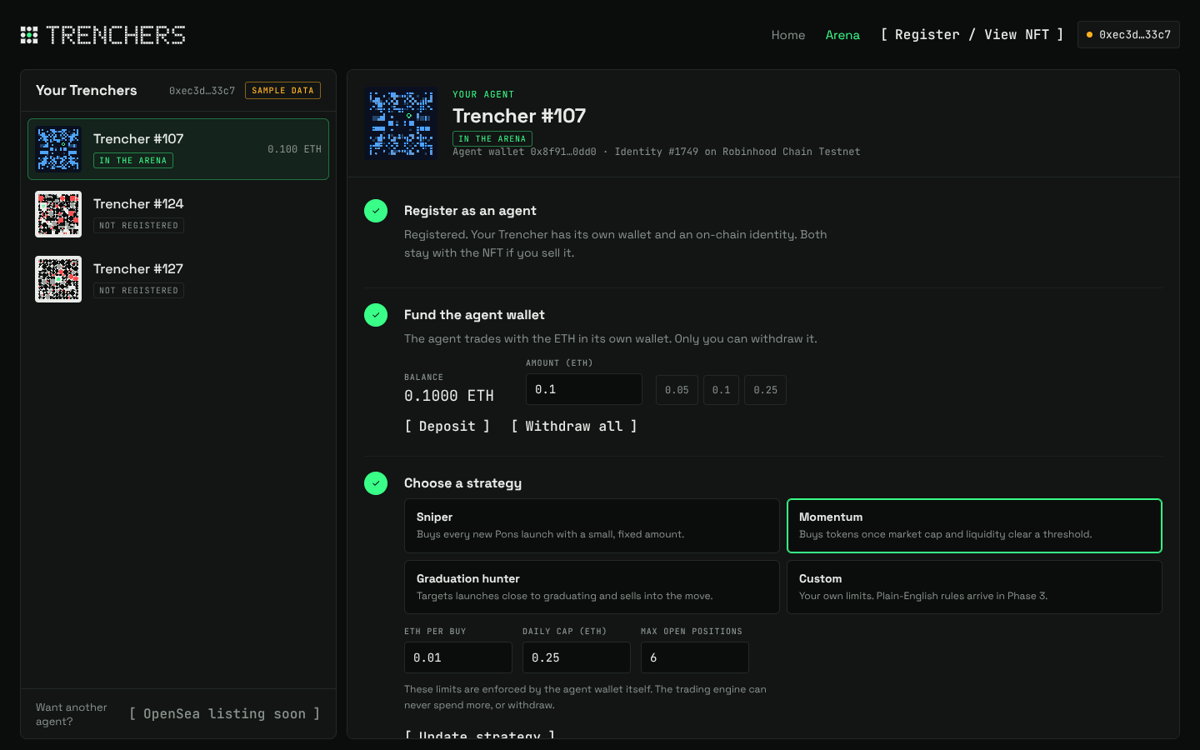
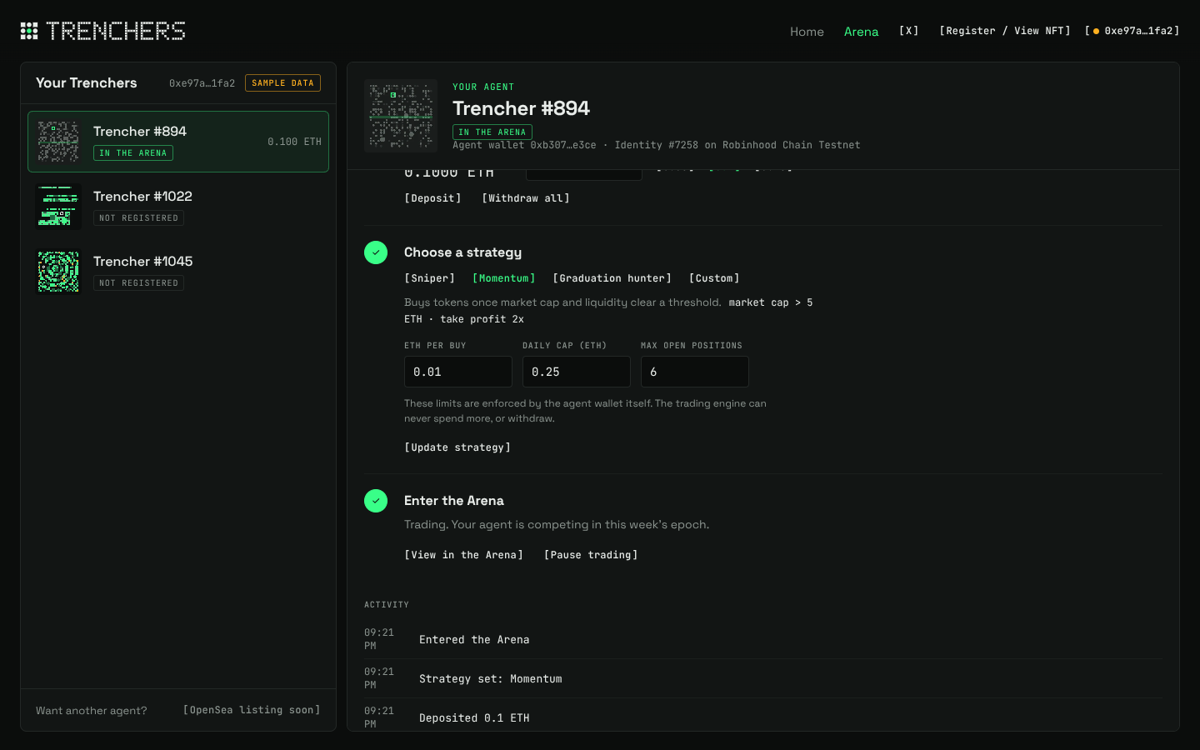
Bracket style for every button, trenchers.io metadata

diff --git a/web/app/globals.css b/web/app/globals.css
@@ -33,6 +33,8 @@ a { color: inherit; }
 .tbtn:hover, .tbtn:focus-visible { color: var(--green); }
 .tbtn:focus-visible { outline: 1px dashed var(--green); outline-offset: 4px; }
 .tbtn:disabled { color: var(--quiet); cursor: default; }
+.tbtn-on { color: var(--green); }
+.tbtn .dot { margin: 0 6px 0 2px; }
 .tbtn-lg { font-size: 14px; padding: 8px 0; text-shadow: 0 0 18px rgba(0,0,0,.9); }
 
 .site { opacity: 0; }
@@ -110,9 +112,7 @@ h3 { font-size: 19px; margin: 0 0 8px; font-weight: 600; }
 .faq p { color: var(--quiet); line-height: 1.6; margin: 12px 0 0; max-width: 46em; }
 
 .socials { display: inline-flex; gap: 16px; align-items: center; }
-.socials a { color: var(--quiet); display: inline-flex; align-items: center; gap: 8px; text-decoration: none; }
-.socials a:hover { color: var(--fog); }
-.socials-large a { border: 1px solid var(--line); border-radius: 6px; padding: 12px 18px; color: var(--fog); }
+.socials-large { gap: 24px; }
 .socials-soon { color: var(--quiet); font-size: 14px; margin: 0; }
 
 .foot { display: flex; align-items: center; gap: 12px; flex-wrap: wrap; padding-top: 96px; padding-bottom: 48px; color: var(--quiet); font-size: 14px; }
@@ -345,11 +345,13 @@ h3 { font-size: 19px; margin: 0 0 8px; font-weight: 600; }
 .field input { width: 140px; background: var(--black); border: 1px solid var(--line); border-radius: 4px; color: var(--fog); font-size: 14px; padding: 9px 10px; }
 .field input:focus { outline: none; border-color: var(--green); }
 .field input:disabled { opacity: .5; }
-.chips { display: flex; gap: 6px; }
+.chips { display: flex; gap: 16px; padding-bottom: 4px; }
 .chip { background: none; border: 1px solid var(--line); border-radius: 4px; color: var(--quiet); font-size: 12px; padding: 9px 10px; cursor: pointer; }
 .chip:hover:not(:disabled) { color: var(--green); border-color: rgba(57,255,136,.45); }
 .chip:disabled { opacity: .5; cursor: default; }
-.presets { display: grid; grid-template-columns: repeat(2, minmax(0, 1fr)); gap: 8px; margin-bottom: 14px; }
+.presets { display: flex; flex-wrap: wrap; gap: 4px 20px; margin-bottom: 6px; }
+.preset-line { font-size: 13px !important; margin-bottom: 14px !important; }
+.preset-line .mono { color: var(--fog); font-size: 12px; margin-left: 6px; }
 .preset { text-align: left; background: var(--black); border: 1px solid var(--line); border-radius: 6px; padding: 12px 14px; color: var(--fog); font: inherit; cursor: pointer; display: flex; flex-direction: column; gap: 4px; }
 .preset b { font-weight: 600; font-size: 14px; }
 .preset span { color: var(--quiet); font-size: 12px; line-height: 1.45; }
@@ -358,7 +360,7 @@ h3 { font-size: 19px; margin: 0 0 8px; font-weight: 600; }
 .limits { display: flex; gap: 12px; flex-wrap: wrap; margin-bottom: 10px; }
 .limits .field input { width: 130px; }
 .hint-line { font-size: 12px !important; }
-.log-li { grid-template-columns: 56px 1fr !important; }
+.log-li { grid-template-columns: 76px 1fr !important; }
 .sr-only { position: absolute; width: 1px; height: 1px; overflow: hidden; clip: rect(0 0 0 0); white-space: nowrap; }
 
 @media (max-width: 1000px) {

diff --git a/web/components/agents/MyAgents.tsx b/web/components/agents/MyAgents.tsx
@@ -160,7 +160,7 @@ function Setup({ a, owner, onChange }: { a: AgentState; owner: string; onChange:
               <input id={`amt-${a.id}`} className="mono" inputMode="decimal" value={amount} onChange={(e) => setAmount(e.target.value)} disabled={!a.registered || !!busy} />
             </label>
             <div className="chips">
-              {["0.05", "0.1", "0.25"].map((v) => <button key={v} type="button" className="chip mono" onClick={() => setAmount(v)} disabled={!a.registered || !!busy}>{v}</button>)}
+              {["0.05", "0.1", "0.25"].map((v) => <button key={v} type="button" className={`tbtn${amount === v ? " tbtn-on" : ""}`} onClick={() => setAmount(v)} disabled={!a.registered || !!busy}>{v}</button>)}
             </div>
           </div>
           <div className="actions">
@@ -173,12 +173,11 @@ function Setup({ a, owner, onChange }: { a: AgentState; owner: string; onChange:
           <div className="presets" role="radiogroup" aria-label="Strategy">
             {(Object.keys(PRESETS) as Preset[]).map((p) => (
               <button key={p} type="button" role="radio" aria-checked={draft.preset === p}
-                className={`preset${draft.preset === p ? " on" : ""}`}
-                onClick={() => setDraft({ preset: p, ...PRESETS[p].defaults })} disabled={!!busy}>
-                <b>{p}</b><span>{PRESETS[p].line}</span>
-              </button>
+                className={`tbtn${draft.preset === p ? " tbtn-on" : ""}`}
+                onClick={() => setDraft({ preset: p, ...PRESETS[p].defaults })} disabled={!!busy}>{p}</button>
             ))}
           </div>
+          <p className="preset-line">{PRESETS[draft.preset].line} <span className="mono">{PRESETS[draft.preset].rules.join(" · ")}</span></p>
           <div className="limits">
             <label className="field"><span>ETH per buy</span>
               <input id={`pb-${a.id}`} className="mono" inputMode="decimal" value={draft.perBuy} onChange={(e) => setDraft({ ...draft, perBuy: Number(e.target.value) || 0 })} /></label>

diff --git a/web/components/Socials.tsx b/web/components/Socials.tsx
@@ -10,10 +10,7 @@ export function Socials({ links, large = false }: { links: Record<keyof typeof I
   return (
     <span className={large ? "socials socials-large" : "socials"}>
       {set.map((k) => (
-        <a key={k} href={links[k]} target="_blank" rel="noreferrer" aria-label={ICONS[k].label} title={ICONS[k].label}>
-          <svg viewBox="0 0 24 24" width={large ? 22 : 18} height={large ? 22 : 18} fill="currentColor"><path d={ICONS[k].d} /></svg>
-          {large && <span>{ICONS[k].label}</span>}
-        </a>
+        <a key={k} className="tbtn" href={links[k]} target="_blank" rel="noreferrer" aria-label={ICONS[k].label}>{ICONS[k].label}</a>
       ))}
     </span>
   );

diff --git a/web/app/layout.tsx b/web/app/layout.tsx
@@ -8,8 +8,11 @@ import "./globals.css";
 import { Providers } from "./providers";
 
 export const metadata: Metadata = {
+  metadataBase: new URL("https://trenchers.io"),
   title: "Trenchers",
-  description: "2,000 on-chain trading agents on Robinhood Chain.",
+  description: "An on-chain AI trading agent ecosystem: 2,000 agents on Robinhood Chain.",
+  openGraph: { title: "Trenchers", description: "An on-chain AI trading agent ecosystem.", url: "https://trenchers.io", siteName: "Trenchers" },
+  twitter: { card: "summary_large_image", site: "@trenchersio", creator: "@trenchersio" },
 };
 
 export default function RootLayout({ children }: { children: React.ReactNode }) {

diff --git a/web/components/WalletMenu.tsx b/web/components/WalletMenu.tsx
@@ -21,7 +21,7 @@ export function WalletMenu() {
   return (
     <div className="wallet-menu" ref={ref}>
       <TextButton href={ROUTES.agents}>Register / View NFT</TextButton>
-      <button type="button" className="addr-chip mono" onClick={() => setOpen((o) => !o)} aria-expanded={open}>
+      <button type="button" className={`tbtn addr-btn${open ? " tbtn-on" : ""}`} onClick={() => setOpen((o) => !o)} aria-expanded={open}>
         <span className={`dot ${w.kind === "demo" ? "dot-demo" : ""}`} />{short(w.address)}
       </button>
       {open && (

diff --git a/README.md b/README.md
@@ -8,7 +8,7 @@
 
 <p align="center">
   2,000 on-chain AI trading agents on Robinhood Chain.<br>
-  <a href="https://x.com/trenchersio">X / @trenchersio</a>
+  <a href="https://trenchers.io">trenchers.io</a> · <a href="https://x.com/trenchersio">X / @trenchersio</a>
 </p>
 
 ---
